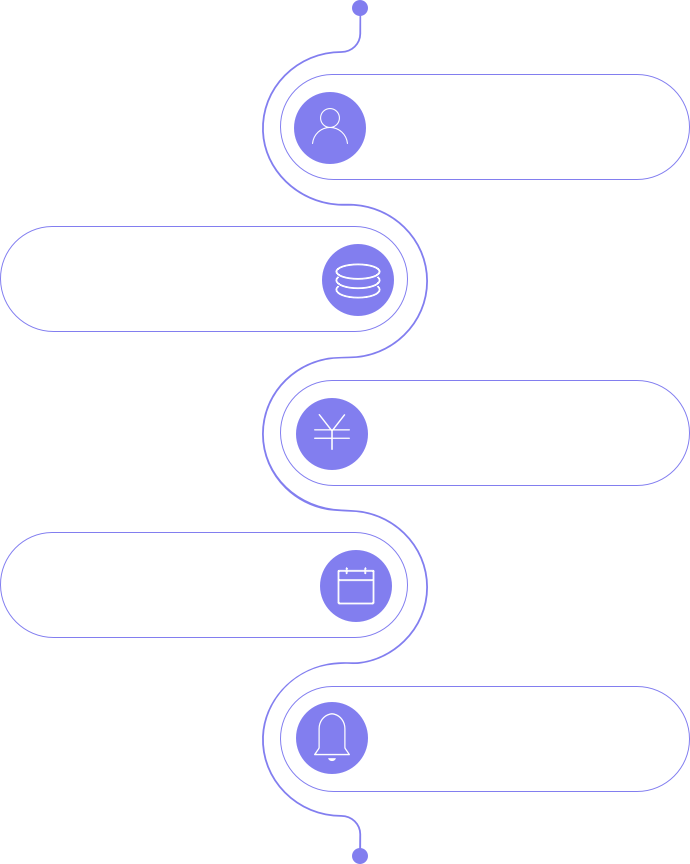
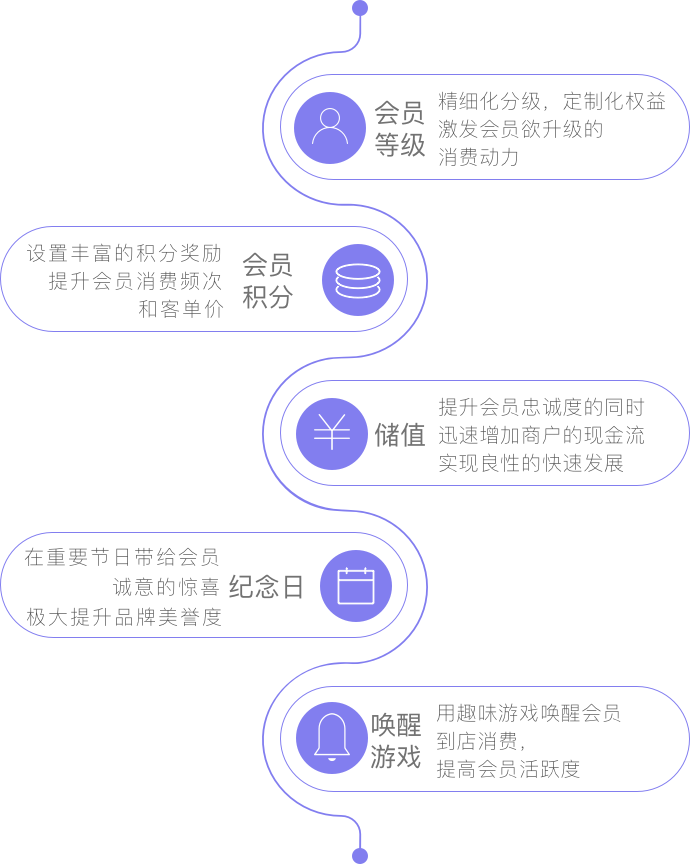
update

diff --git a/product_kehuitou.html b/product_kehuitou.html
@@ -81,7 +81,7 @@
             margin: 2rem auto;
             padding: 0 2rem;
             box-sizing: border-box;
-            background: url("./static/images/kehuitou-content-bg.png?c=2") no-repeat;
+            background: url("./static/images/kehuitou-content-bg.png?c=3") no-repeat;
             background-size: 90%;
             background-position: center;
             height: 32.2rem;
@@ -366,47 +366,47 @@
     <p class="p1">五维忠诚度营销</p>
     <p class="p2">科学管理，打动内心，触发行动</p>
     <div class="content">
-        <div class="w50">
-            <span class="fl">
-                会员<br>等级
-            </span>
-            <span class="fl">
-                精细化分级，定制化权益<br> 激发会员欲升级的<br>消费动力
-            </span>
-        </div>
-        <div class="w50">
-            <span class="fr">
-                会员<br>积分
-            </span>
-            <span class="fr">
-                设置丰富的积分奖励<br> 提升会员消费频次<br> 和客单价
-            </span>
-        </div>
-        <div class="w50">
-            <span class="fl">
-                储值
-            </span>
-            <span class="fl">
+        <!--<div class="w50">-->
+            <!--<span class="fl">-->
+                <!--会员<br>等级-->
+            <!--</span>-->
+            <!--<span class="fl">-->
+                <!--精细化分级，定制化权益<br> 激发会员欲升级的<br>消费动力-->
+            <!--</span>-->
+        <!--</div>-->
+        <!--<div class="w50">-->
+            <!--<span class="fr">-->
+                <!--会员<br>积分-->
+            <!--</span>-->
+            <!--<span class="fr">-->
+                <!--设置丰富的积分奖励<br> 提升会员消费频次<br> 和客单价-->
+            <!--</span>-->
+        <!--</div>-->
+        <!--<div class="w50">-->
+            <!--<span class="fl">-->
+                <!--储值-->
+            <!--</span>-->
+            <!--<span class="fl">-->
 
-                提升会员忠诚度的同时<br> 迅速增加商户的现金<br>实现良性的快速发展
-            </span>
-        </div>
-        <div class="w50">
-            <span class="fr">
-                纪念日
-            </span>
-            <span class="fr">
-                在重要节日带给会员<br> 诚意的惊喜<br> 极大提升品牌美誉度
-            </span>
-        </div>
-        <div class="w50">
-            <span class="fl">
-                唤醒<br>游戏
-            </span>
-            <span class="fl">
-                用趣味游戏唤醒会员<br> 到店消费，<br> 提高会员活跃度
-            </span>
-        </div>
+                <!--提升会员忠诚度的同时<br> 迅速增加商户的现金<br>实现良性的快速发展-->
+            <!--</span>-->
+        <!--</div>-->
+        <!--<div class="w50">-->
+            <!--<span class="fr">-->
+                <!--纪念日-->
+            <!--</span>-->
+            <!--<span class="fr">-->
+                <!--在重要节日带给会员<br> 诚意的惊喜<br> 极大提升品牌美誉度-->
+            <!--</span>-->
+        <!--</div>-->
+        <!--<div class="w50">-->
+            <!--<span class="fl">-->
+                <!--唤醒<br>游戏-->
+            <!--</span>-->
+            <!--<span class="fl">-->
+                <!--用趣味游戏唤醒会员<br> 到店消费，<br> 提高会员活跃度-->
+            <!--</span>-->
+        <!--</div>-->
     </div>
     <p class="p1" style="margin-top: 0">主动营销</p>
     <p class="p2">在每个重要的日子，让会员形影相随</p>
